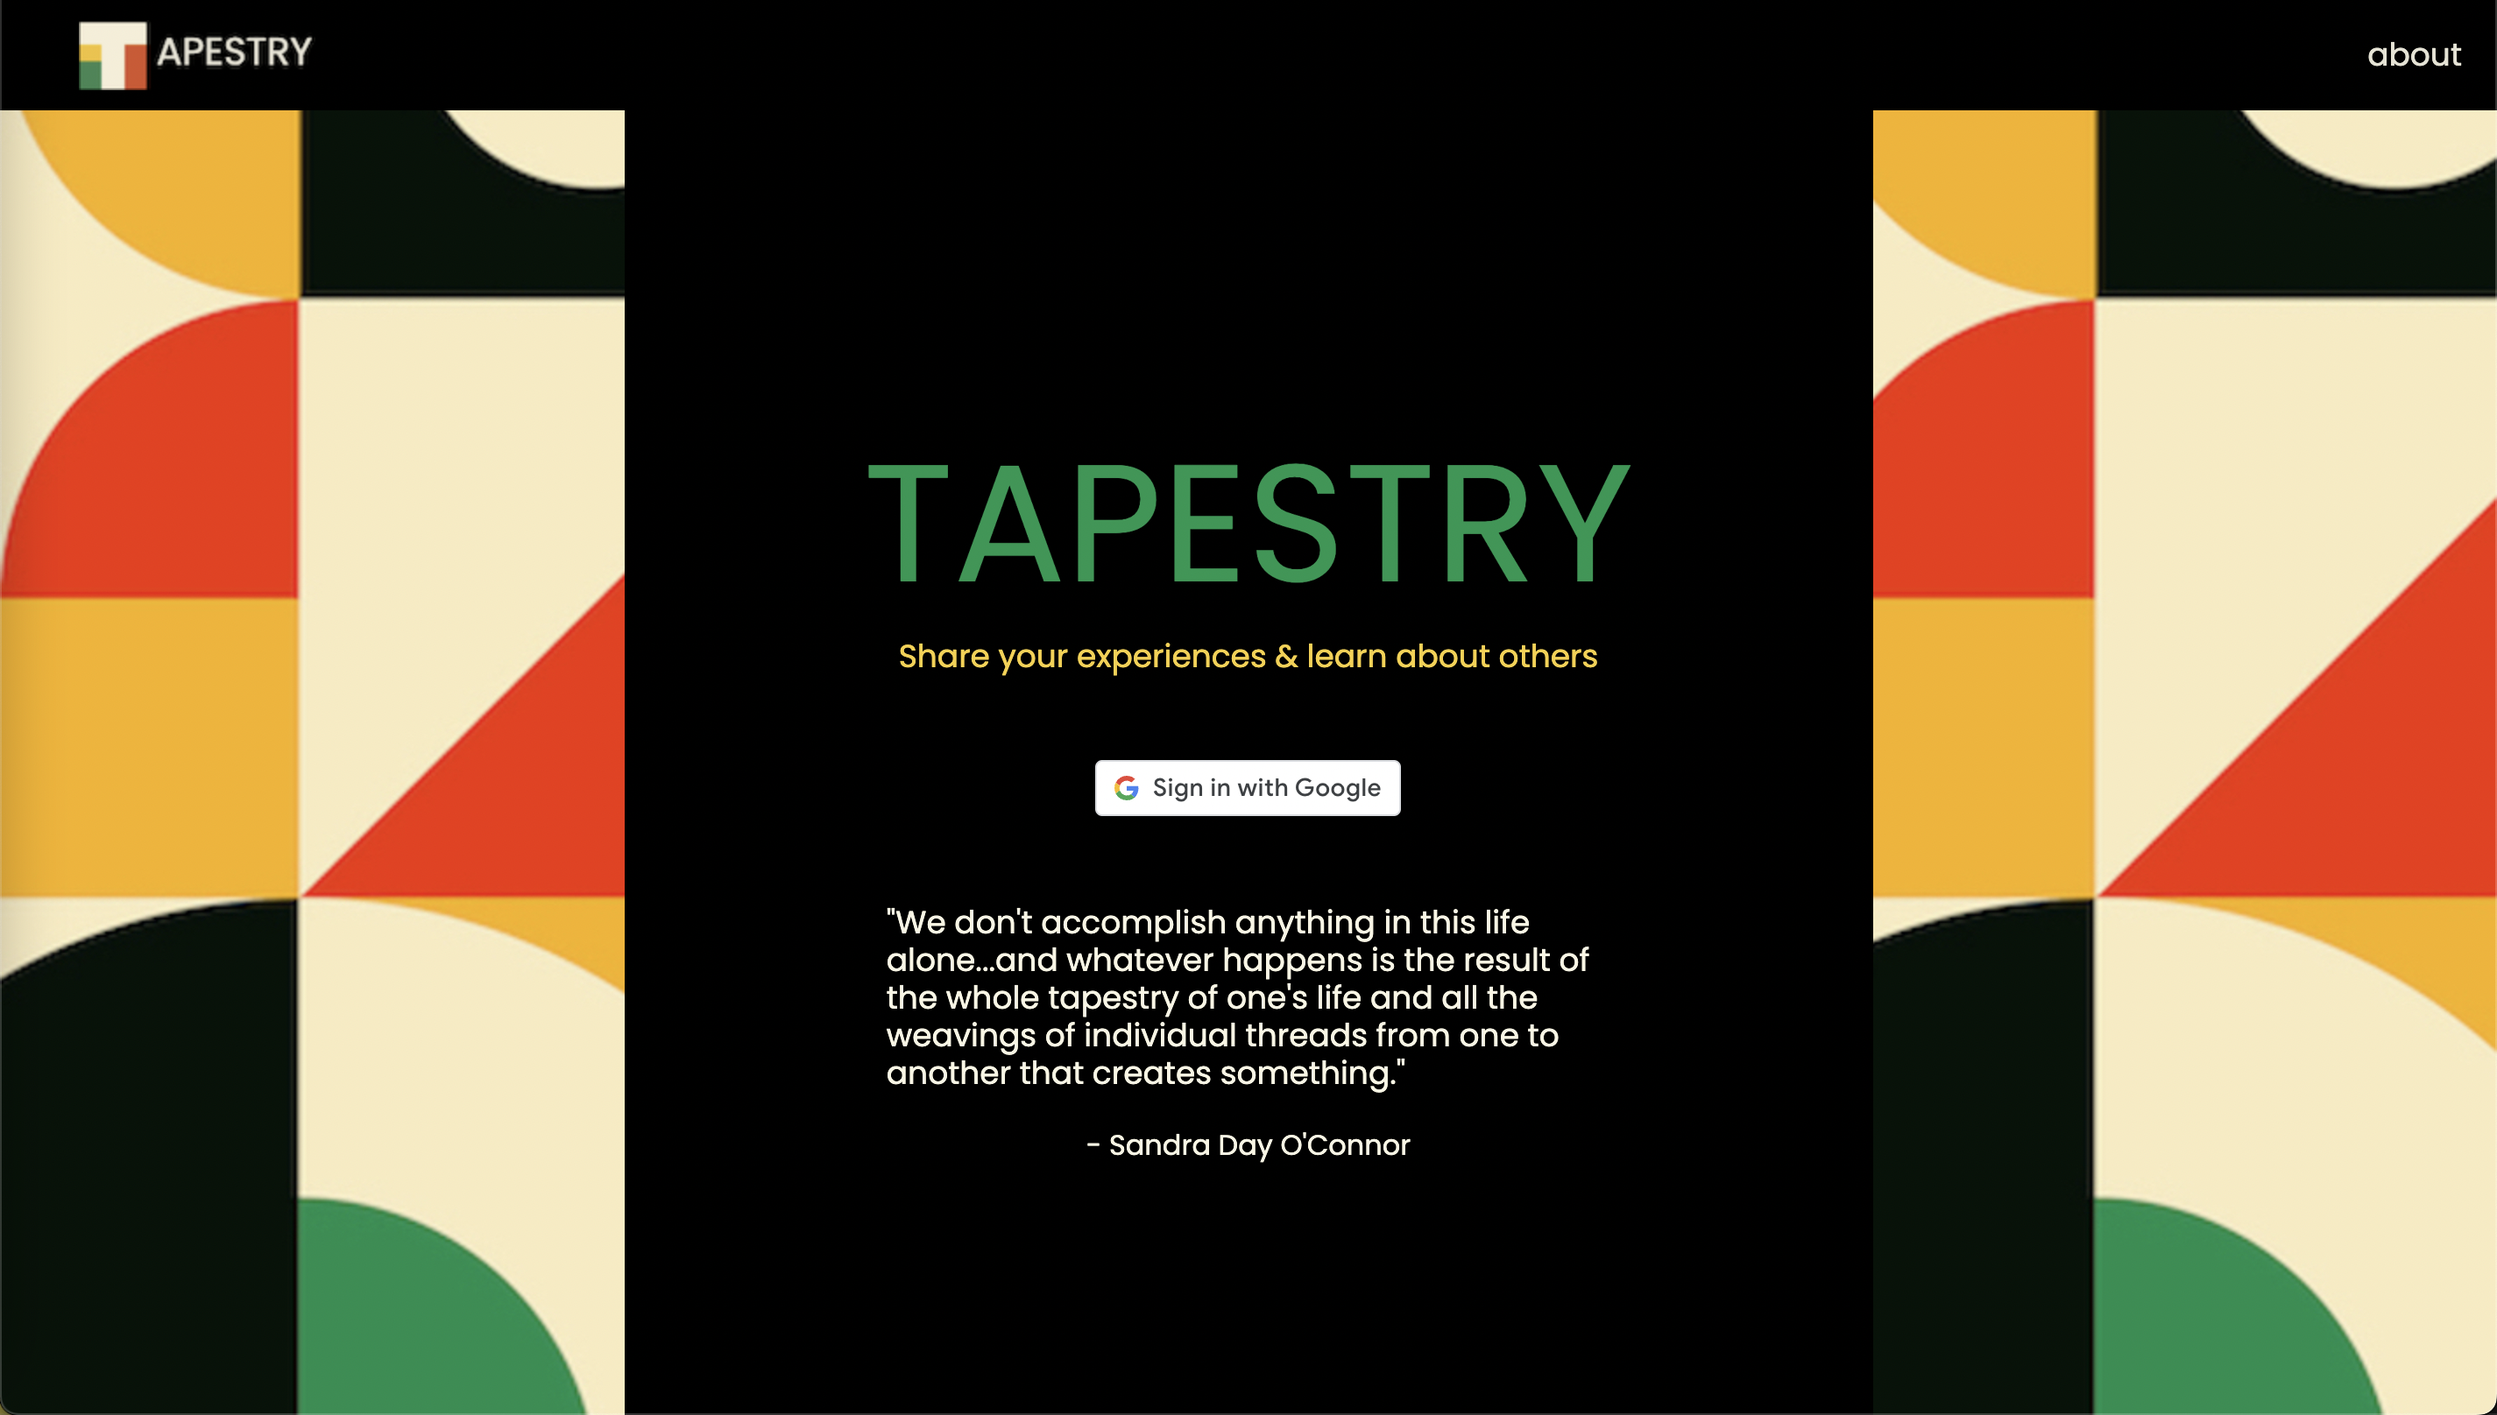
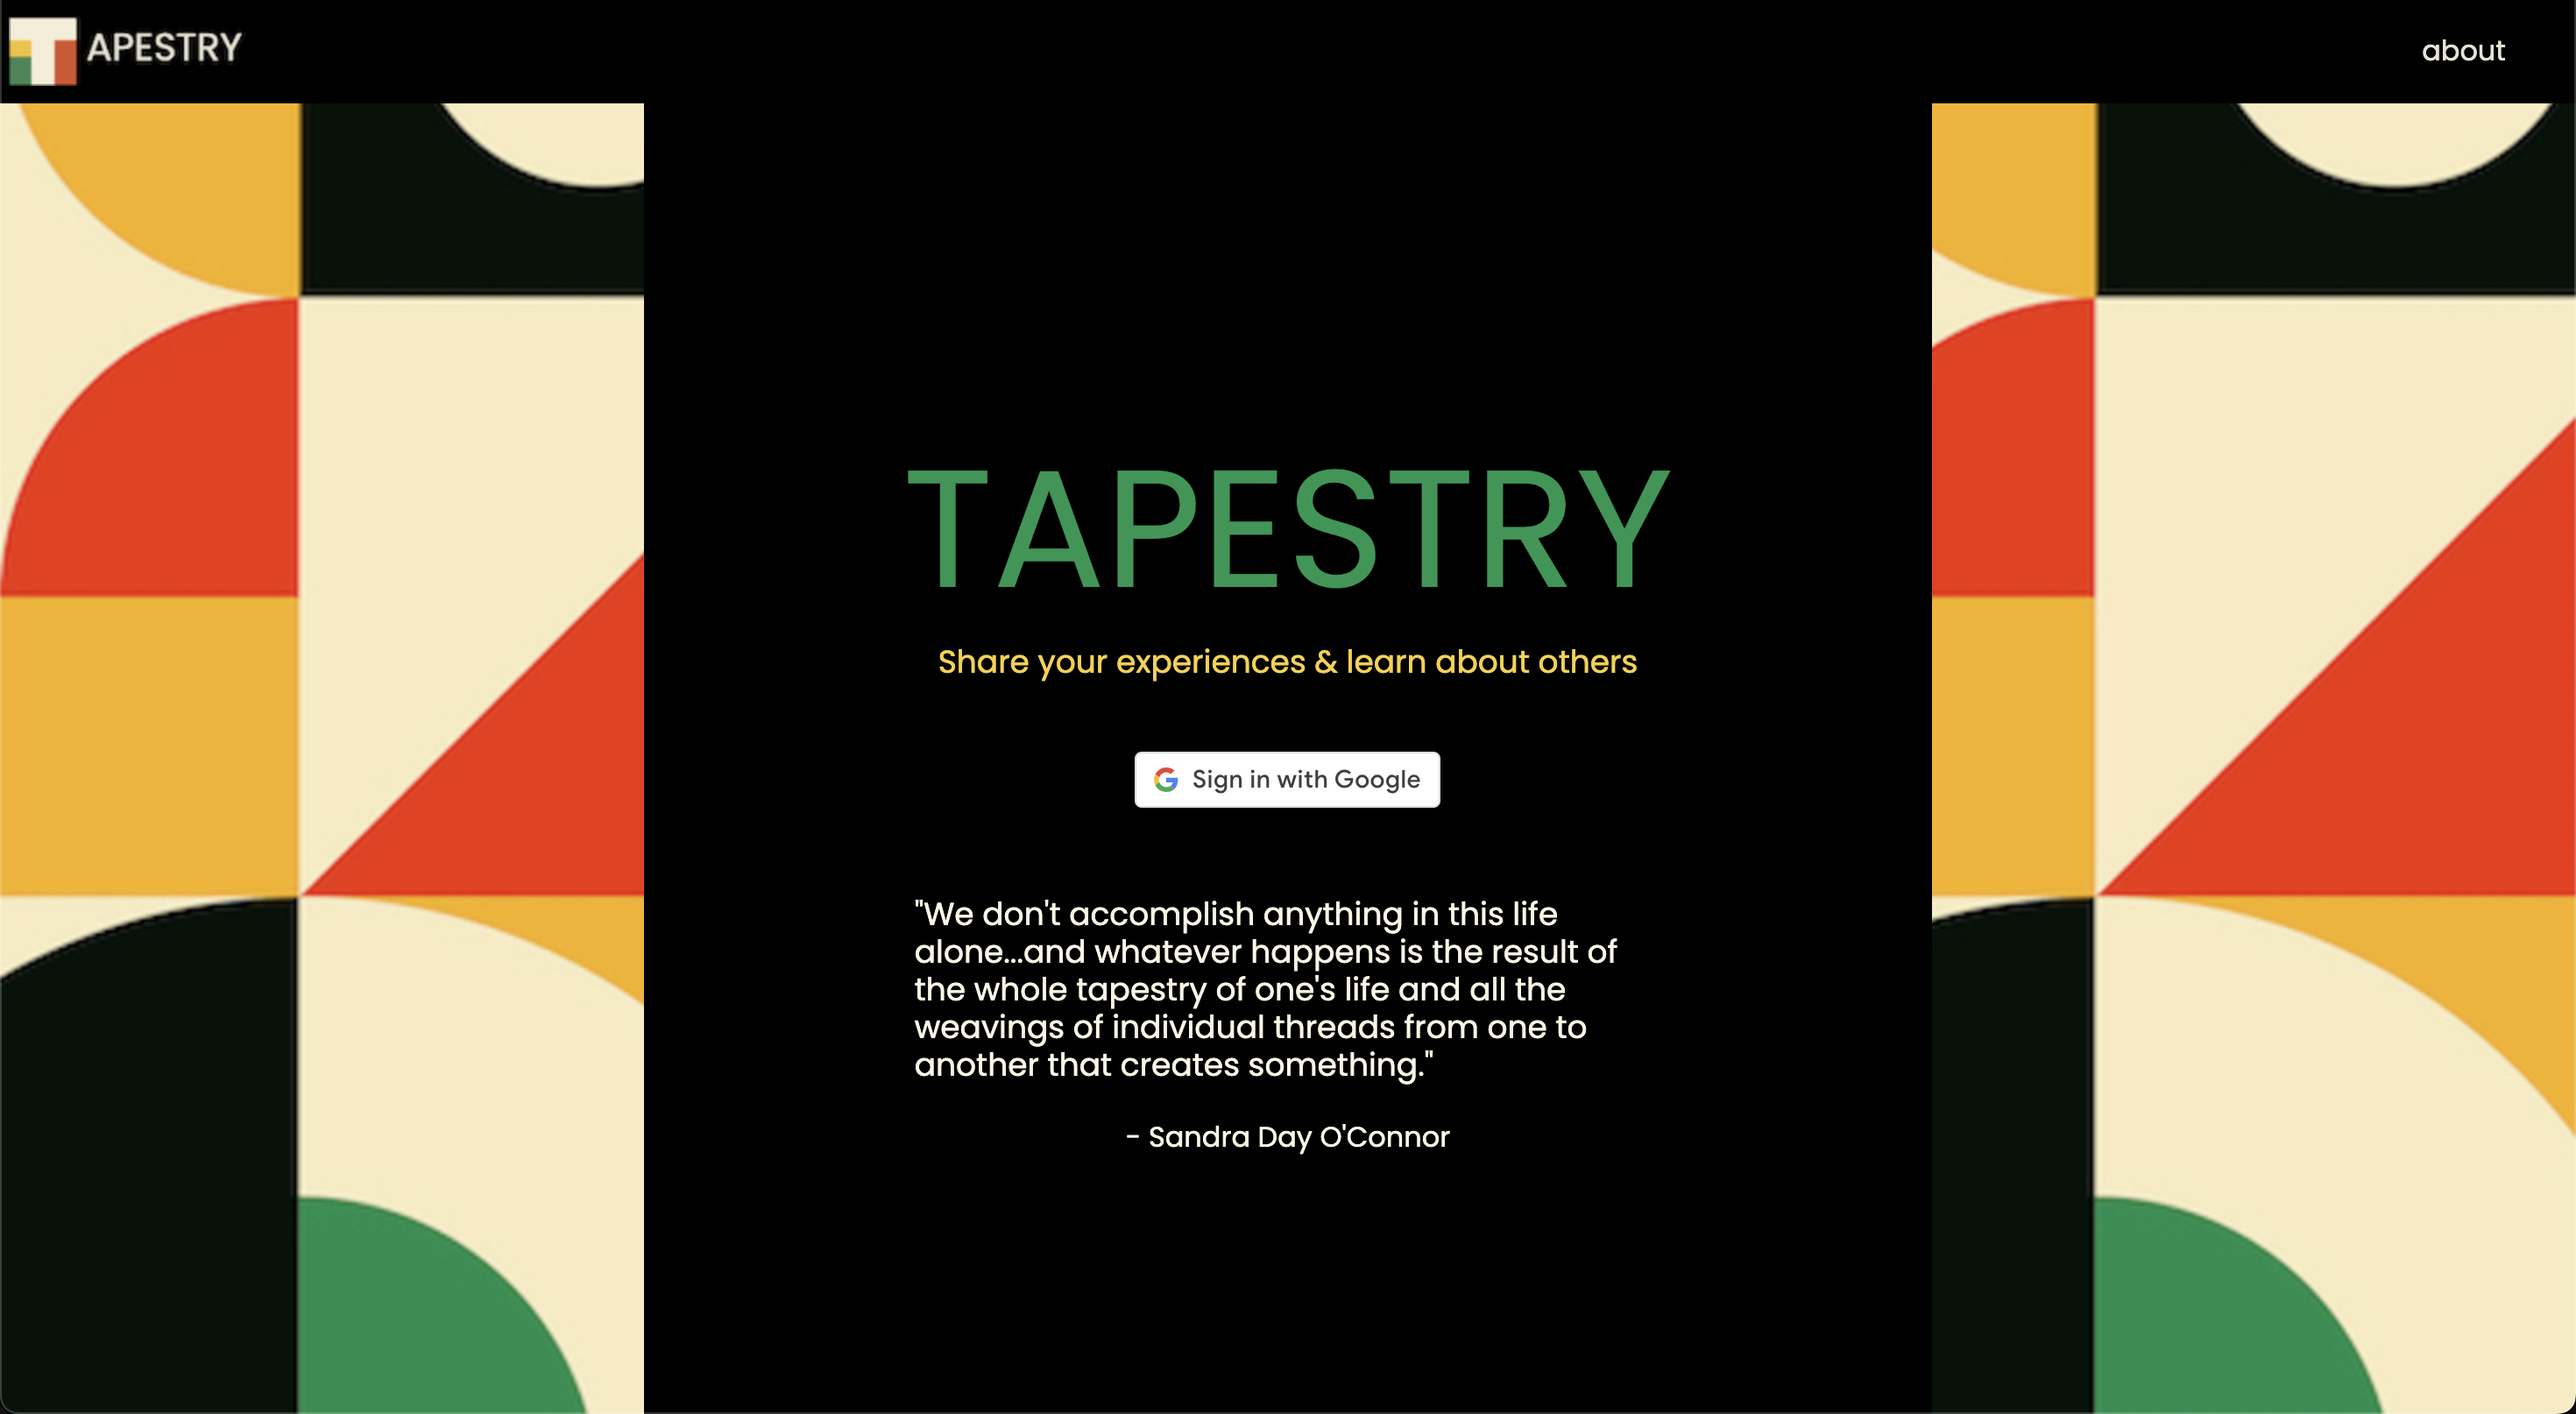
carousel, and revise projects page

diff --git a/src/pages/Projects/Projects.module.css b/src/pages/Projects/Projects.module.css
@@ -1,41 +1,43 @@
+
 .projects {
   background-image: url('../../../public/portfolio-projects-d.png');
   background-size: cover;
   height: 100%;
   padding: 12% 0 0 0;
+  justify-content: center;
 }
 
-.projects article {
+.projects section {
+  flex-wrap: wrap;
   width: 60%;
+  justify-content: flex-start;
+  flex-wrap: wrap;
+}
+
+#project-article {
+  /* width: 80%; */
   padding: 0 0 3% 0;
   display: flex;
-  flex-direction: row;
+  flex-direction: column;
   flex-wrap: wrap;
   justify-content: center;
 }
 
-.projects a {
-  width: 100%;
-  height: 100%;
-}
-
 .projects img {
-  width: 20%;
-  height: 20%;
-  box-shadow: 0 0 20px 5px rgba(82, 82, 82, 0.75)
+  width: 50%;
+  height: 50%;
+  box-shadow: 0 0 20px 5px rgba(82, 82, 82, 0.75);
 }
 
 .projects div {
   display: flex;
   flex-direction: column;
+  justify-content: flex-start;
   align-content: flex-start;
-  height: fit-content;
-  width: 50%;
-  margin: 0 0 0 5%;
-}
-
-.projects a {
-  font-weight: bolder;
+  /* height: fit-content; */
+  width: fit-content;
+  /* margin: 0 0 0 5%; */
+  padding: 0 0 10% 0;
 }
 
 .projects a:hover {
@@ -43,15 +45,23 @@
 }
 
 
-.projects h3, h4 {
+.Projects_projects h3, h4 {
   color: var(--text-color);
 }
 
-.projects p {
-  font-size: 1em;
+.projects h4 {
+  padding: 5% 0 1% 0;
+  font-size: 1.25em;
+  /* width: 50%; */
+  /* text-align: left; */
+}
+
+.projects a {
+  font-size: .9em;
   font-weight: 300;
   width: 100%;
   color: var(--text-color);
+  padding: 10% 0 0 0;
 }
 
 @media only screen and (max-width: 768px) {
@@ -60,19 +70,24 @@
     padding: 35% 0 0 0;
   }
 
+  .projects section {
+    width: 80%;
+  
+  }
+
   .projects article {
-    width: 90%;
-    padding: 0 0 0 10%;
+    width: 100%;
+    /* padding: 0 0 0 10%; */
     display: flex;
     flex-direction: column;
-    justify-content: flex-start;
-    align-items: flex-start;
+    /* justify-content: center;
+    align-items: center; */
   }
 
   .projects img {
-    width: 40%;
-    height: 40%;
-    margin: 0 0 0 5%;
+    width: 80%;
+    height: 80%;
+    /* margin: 0 0 0 5%; */
   }
 
   .projects div {
@@ -81,7 +96,14 @@
   }
 
   .projects h4 {
-    padding: 5% 0 0 0;
+    padding: 8% 0 0 0;
+    font-size: 1em;
+  }
+
+  .projects a {
+    font-size: .8em;;
+    padding: 5% 0 10% 0;
+    text-align: center;
   }
 
 }

diff --git a/src/data/projects.jsx b/src/data/projects.jsx
@@ -3,6 +3,7 @@ export const projects = [
     title: "The Botanist's Library",
     description: "The Botanist's Library is a collection of flowers, a place for gathering floral information and to keep track of community care. Built with Django, Python, HTML, CSS.",
     image: '/p-THE-BOTANISTS-LIBRARY-landing.png',
+    image2: '/p-THE-BOTANISTS-LIBRARY-flowers.png',
     repositoryLink: 'https://github.com/kangcarol/the-botanists-library',
     deploymentLink: 'https://the-botanists-library.herokuapp.com/',
   },
@@ -10,6 +11,7 @@ export const projects = [
     title: 'Tapestry',
     description: 'App designed for contemplation, genuine interactions, to share and learn about others. Built with Mongoose, MongoDB, Express, NodeJS, CSS.',
     image: '/p-TAPESTRY-landing.png',
+    image2: '/p-TAPESTRY-share.png',
     repositoryLink: 'https://github.com/kangcarol/tapestry',
     deploymentLink: 'https://carolkang-tapestry-app.fly.dev/',
   },
@@ -17,6 +19,7 @@ export const projects = [
     title: 'The Phoenix',
     description: 'Choose Your Own Adventure game based on the mythological Phoenix. Built with Javascript, HTML, CSS.   **Designed for desktop, mouse required to play.**',
     image: '/p-THE-PHOENIX-landing.png',
+    image2: '/p-THE-PHOENIX-volcano.png',
     repositoryLink: 'https://github.com/kangcarol/choose-your-own-adventure-the-phoenix',
     deploymentLink: 'https://carol-kang-cyoa-the-phoenix.netlify.app/',
   },
@@ -24,6 +27,7 @@ export const projects = [
     title: 'AVI',
     description: 'AVI is an app for birders that gives them a place to connect. App built with 3 other developers (see README file for more information). Built with React, Express, Mongoose, MongoDB, NodeJS, CSS.',
     image: '/p-AVI-landing.png',
+    image2: '/p-AVI-birds.png',
     repositoryLink: 'https://github.com/kangcarol/Avi-front-end',
     deploymentLink: 'https://avi-birding.netlify.app/',
   },
@@ -31,6 +35,7 @@ export const projects = [
     title: 'Tic Tac Toe',
     description: 'A classic game in a graphic color scheme and animation. Built with Javascript, HTML, CSS.',
     image: '/p-TIC-TAC-TOE-main.png',
+    image2: '/p-TIC-TAC-TOE-play.png',
     repositoryLink: 'https://github.com/kangcarol/ttt-weekend',
     deploymentLink: 'https://carol-kang-tic-tac-toe.netlify.app/',
   }

diff --git a/src/pages/ProjectDetail/ProjectDetail.jsx b/src/pages/ProjectDetail/ProjectDetail.jsx
@@ -1,4 +1,5 @@
 import { useParams, Link } from "react-router-dom"
+import Carousel from 'react-bootstrap/Carousel';
 import findProject from "../../utilities/findProject"
 import styles from './ProjectDetail.module.css'
 import { FontAwesomeIcon } from '@fortawesome/react-fontawesome'
@@ -12,7 +13,25 @@ const ProjectDetail = () => {
     <>
       <main>
         <section className={styles.ProjectDetail}>
-          <img src={project.image} alt={project.title}/>
+
+        <Carousel>
+          <Carousel.Item>
+            <img
+              className="d-block w-100"
+              src={project.image}
+              alt={project.title}
+            />
+          </Carousel.Item>
+
+          <Carousel.Item>
+            <img
+              className="d-block w-100"
+              src={project.image2} 
+              alt={project.title}
+            />
+          </Carousel.Item>
+        </Carousel>
+
           <p>{project.description}</p>
           <ul>
             <li><a href={project.repositoryLink} target="_blank" rel="noreferrer"><FontAwesomeIcon icon={faCode} /> Code</a></li>

diff --git a/src/components/ProjectPreview/ProjectPreview.jsx b/src/components/ProjectPreview/ProjectPreview.jsx
@@ -3,20 +3,22 @@ import { Link } from "react-router-dom";
 import { FontAwesomeIcon } from '@fortawesome/react-fontawesome'
 import { faMagnifyingGlass } from '@fortawesome/free-solid-svg-icons'
 
+
 const ProjectPreview = (props) => {
   const path = hyphenateWords(props.projectTitle)
+
   return (
     <>
-      <article>
+      {/* <article id="project-article"> */}
+        {/* <h4>{props.projectTitle}</h4> */}
         <img src={props.projectImage} alt={props.projectTitle} />
-        <div>
-          <h4>{props.projectTitle}</h4>
-          <p>{props.projectDescription}</p>
+        <div >
+          {/* <p>{props.projectDescription}</p> */}
           
-          <p><Link to={`/projects/${path}`}><FontAwesomeIcon icon={faMagnifyingGlass} />    Learn More</Link></p>
+          <Link to={`/projects/${path}`}><FontAwesomeIcon icon={faMagnifyingGlass} />    Learn More</Link>
           
         </div>
-      </article>
+      {/* </article> */}
     </>
   )
 }

diff --git a/src/pages/Home/Home.module.css b/src/pages/Home/Home.module.css
@@ -4,8 +4,8 @@
 }
 
 .home img {
-  width: 65%;
-  height: 65%;
+  width: 120%;
+  height: 120%;
   float: right;
 }
 
@@ -13,8 +13,8 @@
   float: left;
   width: 20%;
   z-index: 10;
-  margin-left: 23%;
-  margin-top: -6%;
+  margin-left: 26%;
+  margin-top: -10%;
   display: flex;
   flex-direction: column;
   justify-content: flex-start;
@@ -61,12 +61,12 @@
 @media only screen and (max-width: 1024px) {
 
   .home img {
-    width: 85%;
-    height: 85%;
+    width: 120%;
+    height: 120%;
   }
 
   .home div {
-    font-size: 1.6em;
+    font-size: 1.4em;
   }
 
 }

diff --git a/src/pages/ProjectDetail/ProjectDetail.module.css b/src/pages/ProjectDetail/ProjectDetail.module.css
@@ -1,17 +1,23 @@
-.ProjectDetail section, img, p {
+.ProjectDetail img, p {
+  width: 100%;
+}
+
+main > section {
   width: 50%;
+  display: flex;
+  justify-content: center;
 }
 
 .ProjectDetail img {
-  box-shadow: 0 0 20px 10px rgba(66, 66, 66, 0.75)
+  box-shadow: 0 0 20px 10px rgba(66, 66, 66, 0.75);
 }
 
 .ProjectDetail ul {
   display: flex;
   flex-direction: row;
-  justify-content: flex-start;
+  justify-content: center;
   align-items: flex-start;
-  padding: 0;
+  padding: 20px 0 0 0;
 }
 
 .ProjectDetail li {
